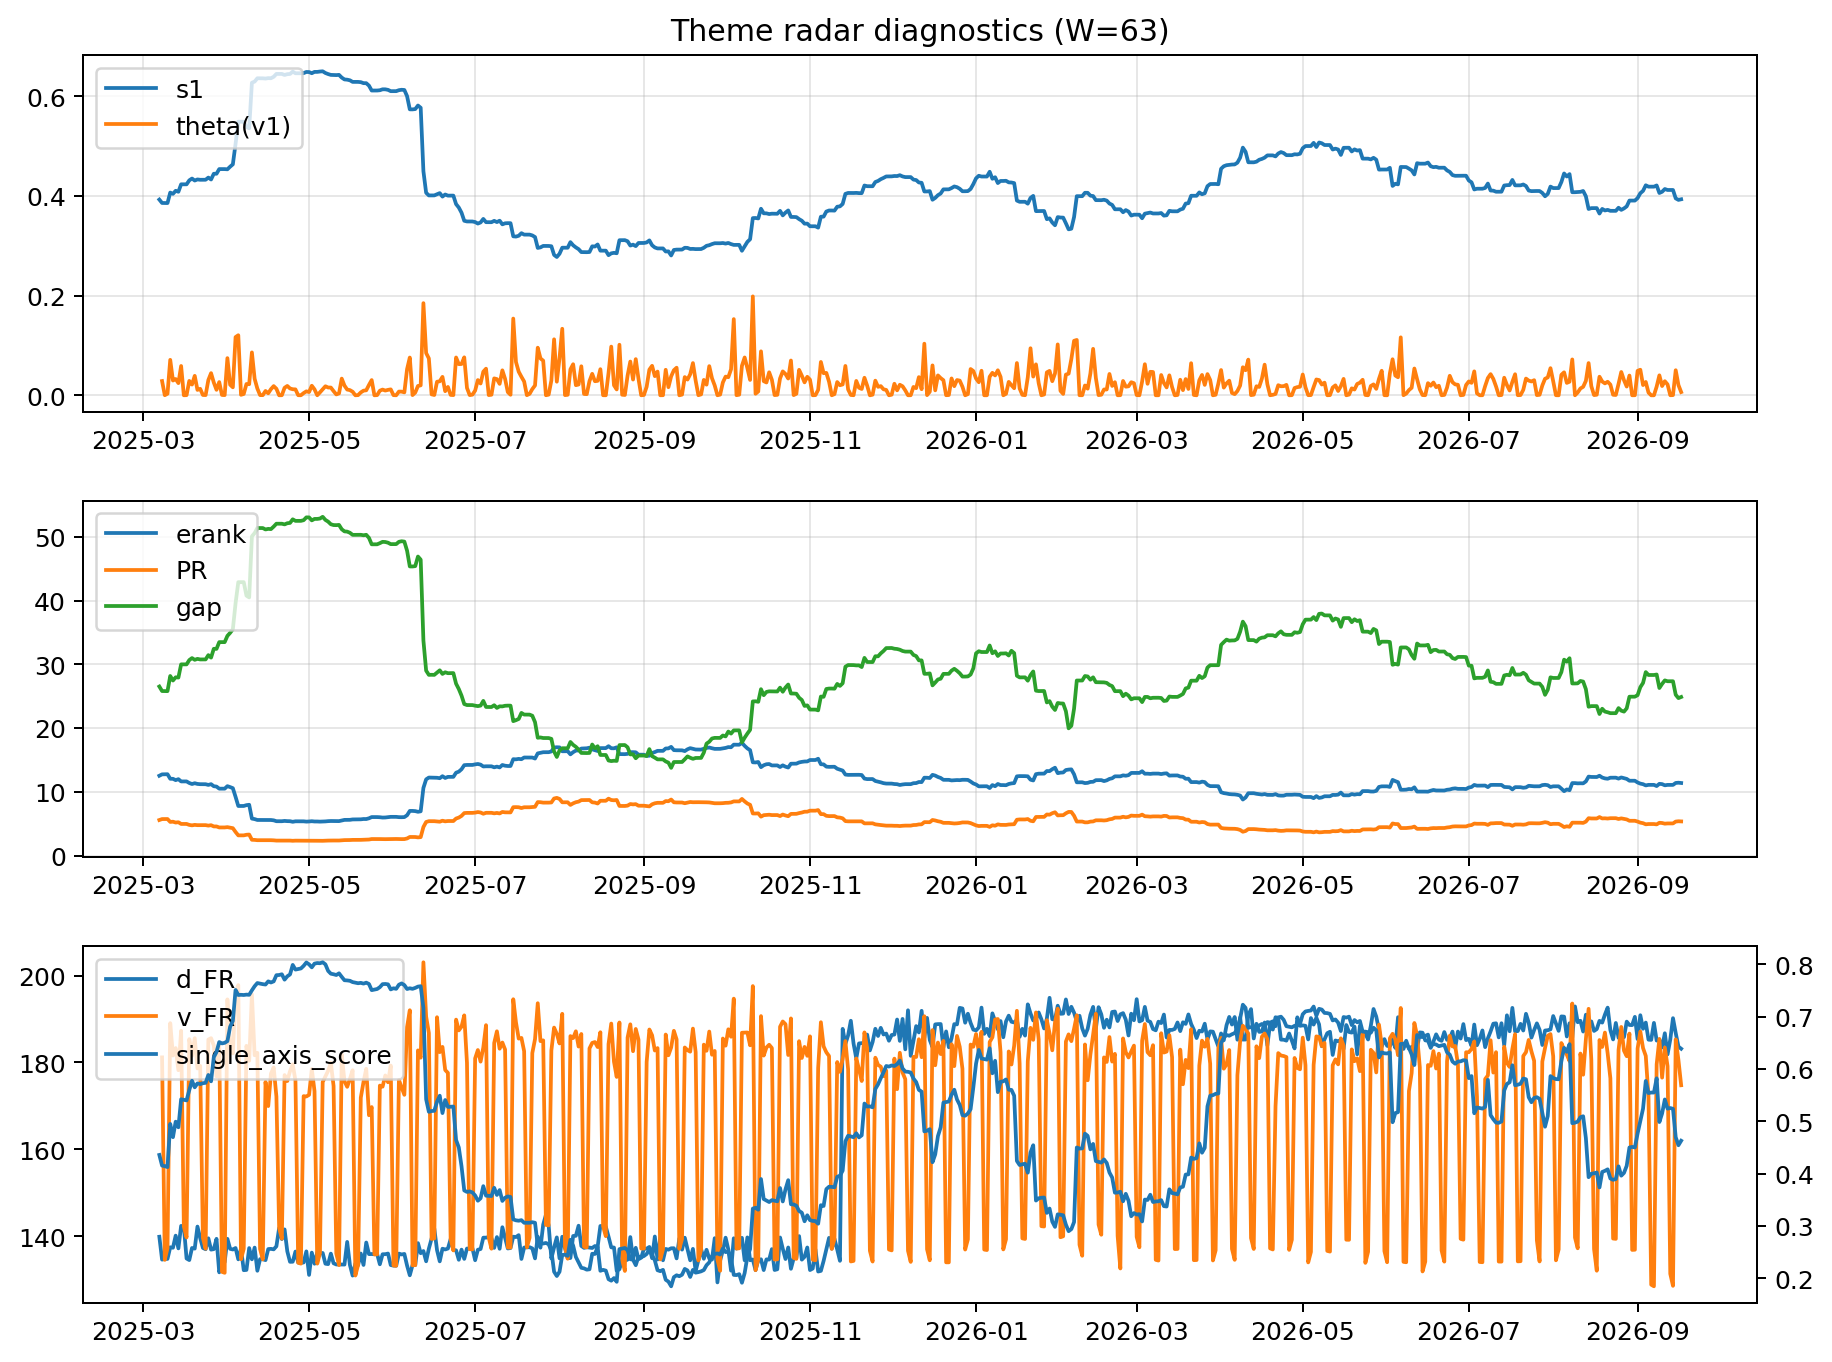
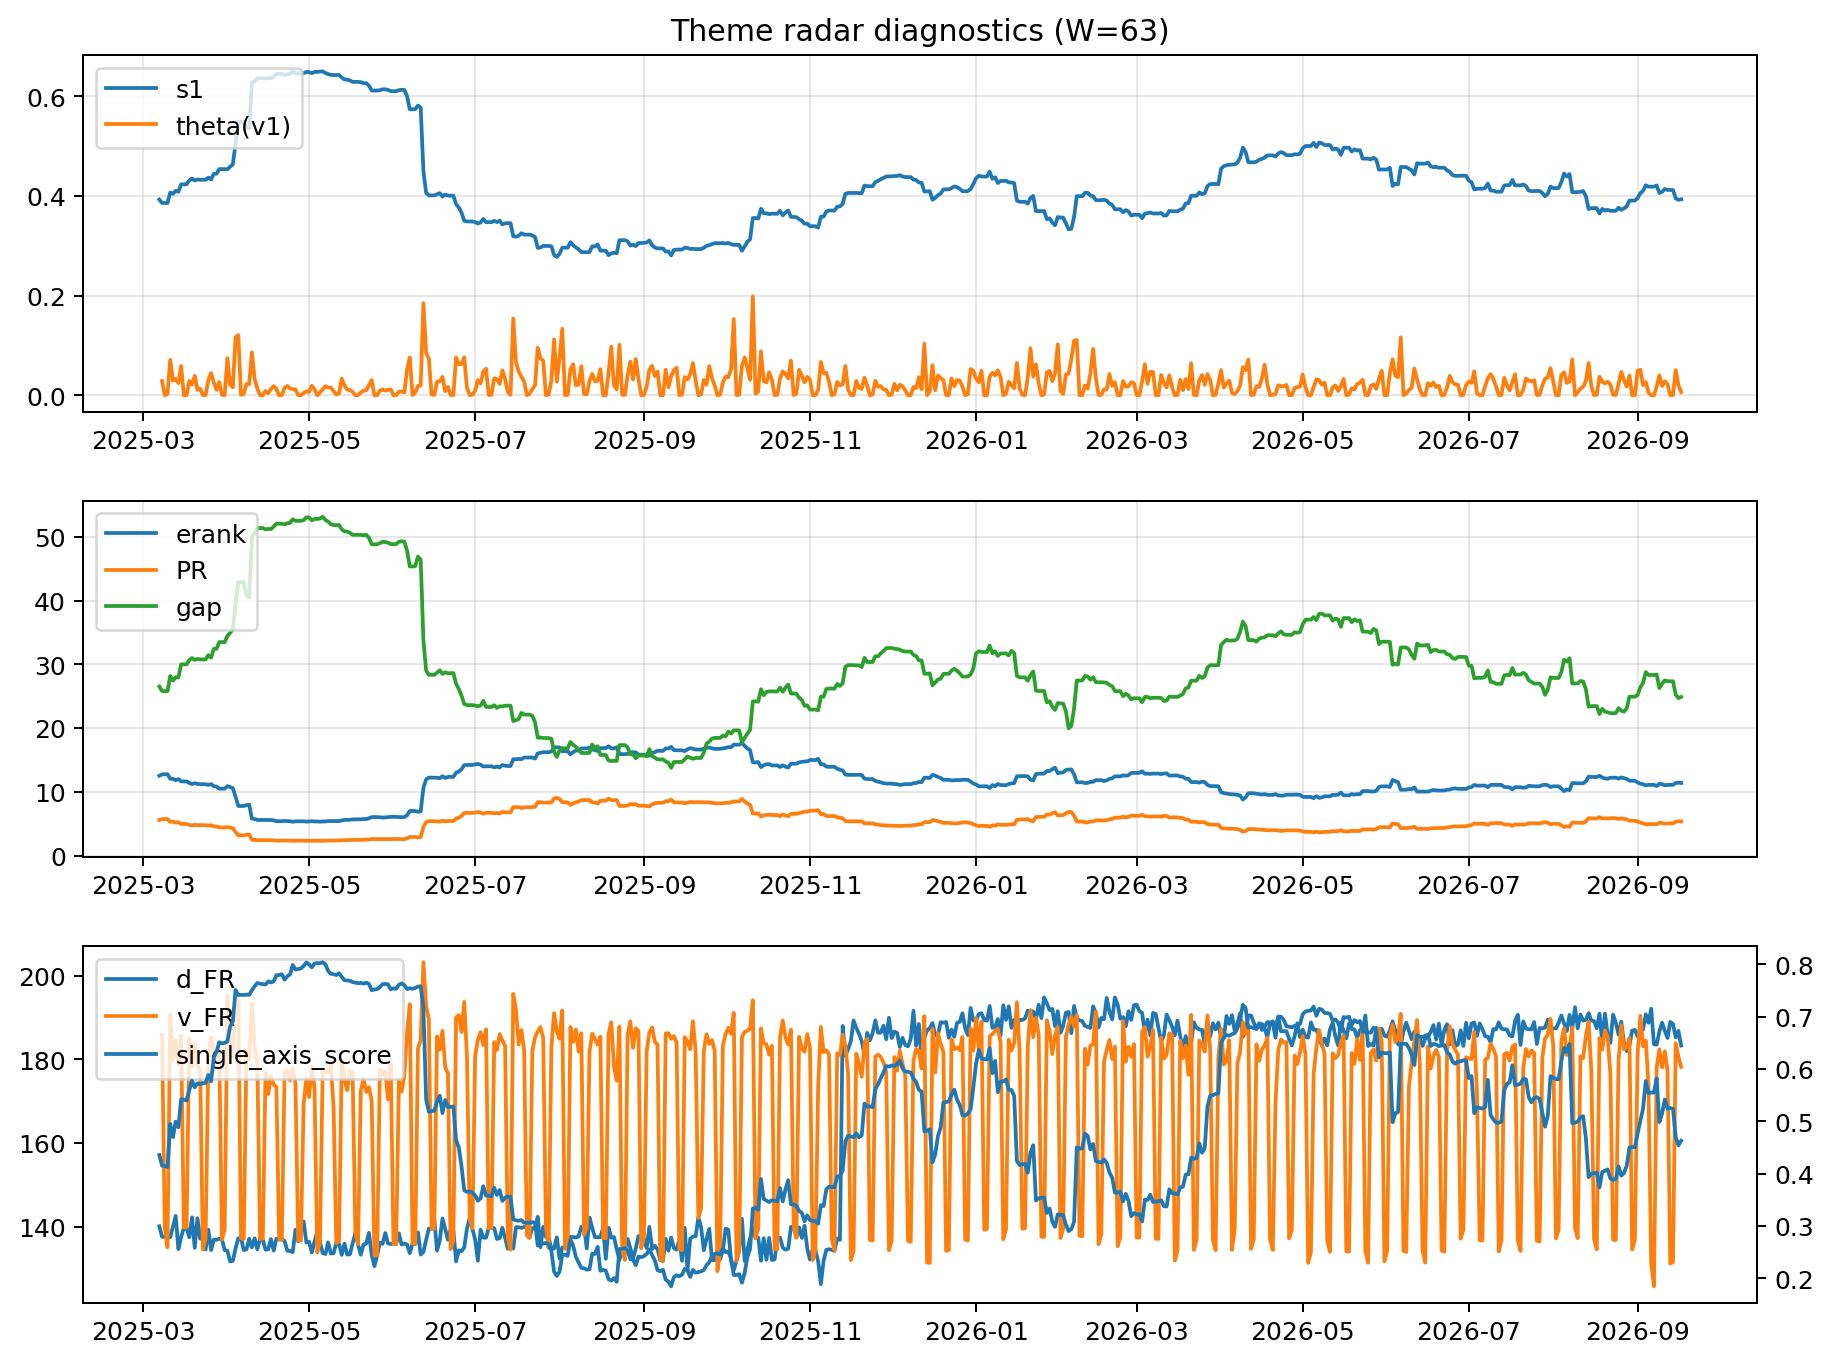
log: 2026-09-17 | sha256:10021c809936b1980ec5e4d4f7bddf64d31590a92197aeaa404982c5fb24fcc9

diff --git a/logs/2026-09-17.md b/logs/2026-09-17.md
@@ -3,43 +3,43 @@
 ![diagnostic W63](../assets/diagnostic/2026-09-17_W63.png)
 
 ## Leaders (v1) — W=63
-- **Nuclear_Uranium** (0.0853767963583846)
-- Semis (0.0706524765884644)
-- Quantum (0.0640538599703631)
+- **Nuclear_Uranium** (0.0853767930620924)
+- Semis (0.0706524693880537)
+- Quantum (0.0640538586953469)
 
 ## Challengers — W=63
-**v2:** Rates (0.0888151917147973), Semis (0.0813938450159981), Genomics_Bio (0.0690409280515727)
-**v3:** Metals (0.0830129789352527), Crypto (0.0720865597610345), Genomics_Bio (0.0713578159720119)
+**v2:** Rates (0.0888150591751788), Semis (0.0813938954276462), Genomics_Bio (0.0690409456028907)
+**v3:** Metals (0.0830129780005373), Crypto (0.0720865646332958), Genomics_Bio (0.0713578211912007)
 
 ## Migration (20D slope) — W=63
 **Top risers:**
-- axis_DataCenter_Infra: 0.0006229708906789
-- axis_Genomics_Bio: 0.0003708605659559
-- axis_MegaCap_AI: 0.0003267755173203
-- axis_Space: 0.0002204342990613
-- axis_Metals: 0.0001356983616292
-- axis_Sector_Fin: 0.0001279831662138
-- axis_Crypto: 0.0001254106842176
-- axis_Drones_Autonomy: 0.0001161007147822
-- axis_Sector_Materials: 8.753984993945118e-05
-- axis_Commodities: 4.197449743133903e-05
+- axis_DataCenter_Infra: 0.000622970787897
+- axis_Genomics_Bio: 0.0003708604446998
+- axis_MegaCap_AI: 0.0003267756459597
+- axis_Space: 0.0002204344652195
+- axis_Metals: 0.0001356982661677
+- axis_Sector_Fin: 0.0001279830943471
+- axis_Crypto: 0.0001254105040102
+- axis_Drones_Autonomy: 0.0001161007798797
+- axis_Sector_Materials: 8.753986747749128e-05
+- axis_Commodities: 4.19744455886086e-05
 
 **Top fallers:**
-- axis_Grid_Power: -9.175602676149505e-05
-- axis_Semis: -0.0001059373464268
-- axis_Sector_Utilities: -0.0001128271643667
-- axis_Sector_Health: -0.0001129408352045
-- axis_Sector_ConsStap: -0.0001188360256597
-- axis_Critical_Minerals: -0.0001229636664813
-- axis_Sector_Energy: -0.0001926554998565
-- axis_Cyber: -0.0002817483191009
-- axis_Sector_RealEstate: -0.000306428940333
-- axis_Nuclear_Uranium: -0.0004110415450882
+- axis_Grid_Power: -9.175587702776734e-05
+- axis_Semis: -0.0001059371014544
+- axis_Sector_Utilities: -0.0001128272490708
+- axis_Sector_Health: -0.0001129407937138
+- axis_Sector_ConsStap: -0.0001188360375891
+- axis_Critical_Minerals: -0.0001229636165985
+- axis_Sector_Energy: -0.00019265551952
+- axis_Cyber: -0.0002817483694864
+- axis_Sector_RealEstate: -0.0003064288885875
+- axis_Nuclear_Uranium: -0.0004110415919031
 
 ## Risk line (W=63)
-- s1: 0.3931776380501676
-- theta_v1: 0.0064962933506647
-- v_FR: 174.7362878179857
+- s1: 0.3931776635664132
+- theta_v1: 0.0064963003548313
+- v_FR: 178.1871512649128
 - single_axis_score: 0.4628571428571429
 
 ## Interpretation
@@ -48,7 +48,7 @@
 - Action: Tomorrow watchlist: DataCenter_Infra, Genomics_Bio, MegaCap_AI, Space, Metals + v2_top1=Rates
 - Action: Hedge note: normal correlation stability.
 
-- Percentiles (W=63 history): vfr_pct=0.32, theta_pct=0.30, s1_pct=0.40, score_pct=0.42.
+- Percentiles (W=63 history): vfr_pct=0.39, theta_pct=0.30, s1_pct=0.40, score_pct=0.42.
 
 ---
[2 lines of base64/hex data omitted]
